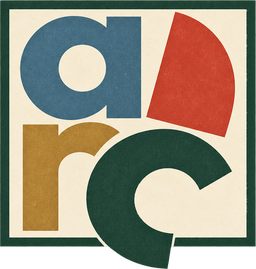
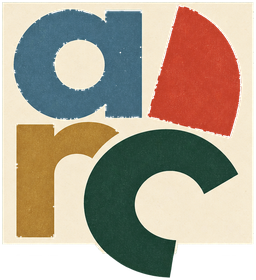
Drop the Arc mark plate and keep Settings off the pages
The stacked mark keeps its cream field and hanging c, with the forest
plate knocked out so it sits on the paper. Settings and Fridge peek 12px
onto the cover only, so the open trays stay wall furniture and the grid
stays fully readable.

diff --git a/src/surfaces/settings/SettingsPanel.module.css b/src/surfaces/settings/SettingsPanel.module.css
@@ -31,6 +31,8 @@
 
 .folder {
   position: relative;
+  box-sizing: border-box;
+  width: 100%;
   background: var(--arc-blue);
   border-radius: 18px 0 16px 16px;
   padding: 10px 10px 10px 12px;
@@ -40,10 +42,13 @@
 }
 
 .paper {
+  box-sizing: border-box;
+  width: 100%;
   background: var(--arc-paper);
   border-radius: 12px;
   padding: 22px 16px 16px;
   max-height: min(700px, 74vh);
+  overflow-x: hidden;
   overflow-y: auto;
 }
 
@@ -92,6 +97,7 @@
   padding: 8px 10px 10px 12px;
   border-radius: 8px;
   background: var(--arc-paper-white);
+  min-width: 0;
 }
 
 .sections {
@@ -100,6 +106,8 @@
   border-radius: 8px;
   background: color-mix(in srgb, var(--arc-paper-white) 70%, var(--arc-paper));
   border-left: 3px solid var(--token-color, var(--arc-line-strong));
+  min-width: 0;
+  box-sizing: border-box;
 }
 
 .sectionsLabel {
@@ -162,10 +170,12 @@
   display: flex;
   gap: 6px;
   margin: 8px 0 4px;
+  min-width: 0;
 }
 
 .inlineForm input {
   flex: 1;
+  min-width: 0;
   font-size: 14px;
   padding: 6px 8px;
   border-radius: var(--arc-radius-sm);

diff --git a/src/surfaces/fridge/FridgeTab.module.css b/src/surfaces/fridge/FridgeTab.module.css
@@ -13,8 +13,8 @@
   cursor: pointer;
   min-width: 36px;
   min-height: 44px;
+  flex-shrink: 0;
   z-index: 5;
-  margin-left: -14px;
 }
 
 .label {
@@ -43,7 +43,6 @@
     border-right: 1px solid var(--arc-line-strong);
     border-radius: var(--arc-radius);
     flex-direction: row;
-    margin-left: 0;
   }
   .label {
     writing-mode: horizontal-tb;

diff --git a/src/surfaces/settings/SettingsTab.module.css b/src/surfaces/settings/SettingsTab.module.css
@@ -13,8 +13,8 @@
   color: var(--arc-ink);
   min-width: 36px;
   min-height: 44px;
+  flex-shrink: 0;
   z-index: 5;
-  margin-right: -14px;
 }
 
 .label {
@@ -32,7 +32,6 @@
     border-radius: var(--arc-radius);
     flex-direction: row;
     writing-mode: horizontal-tb;
-    margin-right: 0;
   }
   .label {
     writing-mode: horizontal-tb;

diff --git a/src/assets/ArcMark.tsx b/src/assets/ArcMark.tsx
@@ -1,6 +1,6 @@
 /** Real stacked Arc mark — cream field, hanging c, no black plate. */
 export function ArcMark({ size = 48 }: { size?: number }) {
-  const height = Math.round(size * (269 / 256));
+  const height = Math.round(size * (280 / 256));
   return (
     <img
       src="/assets/arc/arc-mark.png"

diff --git a/src/app/AppFrame.module.css b/src/app/AppFrame.module.css
@@ -72,13 +72,13 @@
 }
 
 .edgeLeft {
-  right: 100%;
+  right: calc(100% - 12px);
   flex-direction: row;
   justify-content: flex-end;
 }
 
 .edgeRight {
-  left: 100%;
+  left: calc(100% - 12px);
   flex-direction: row;
   justify-content: flex-start;
 }
